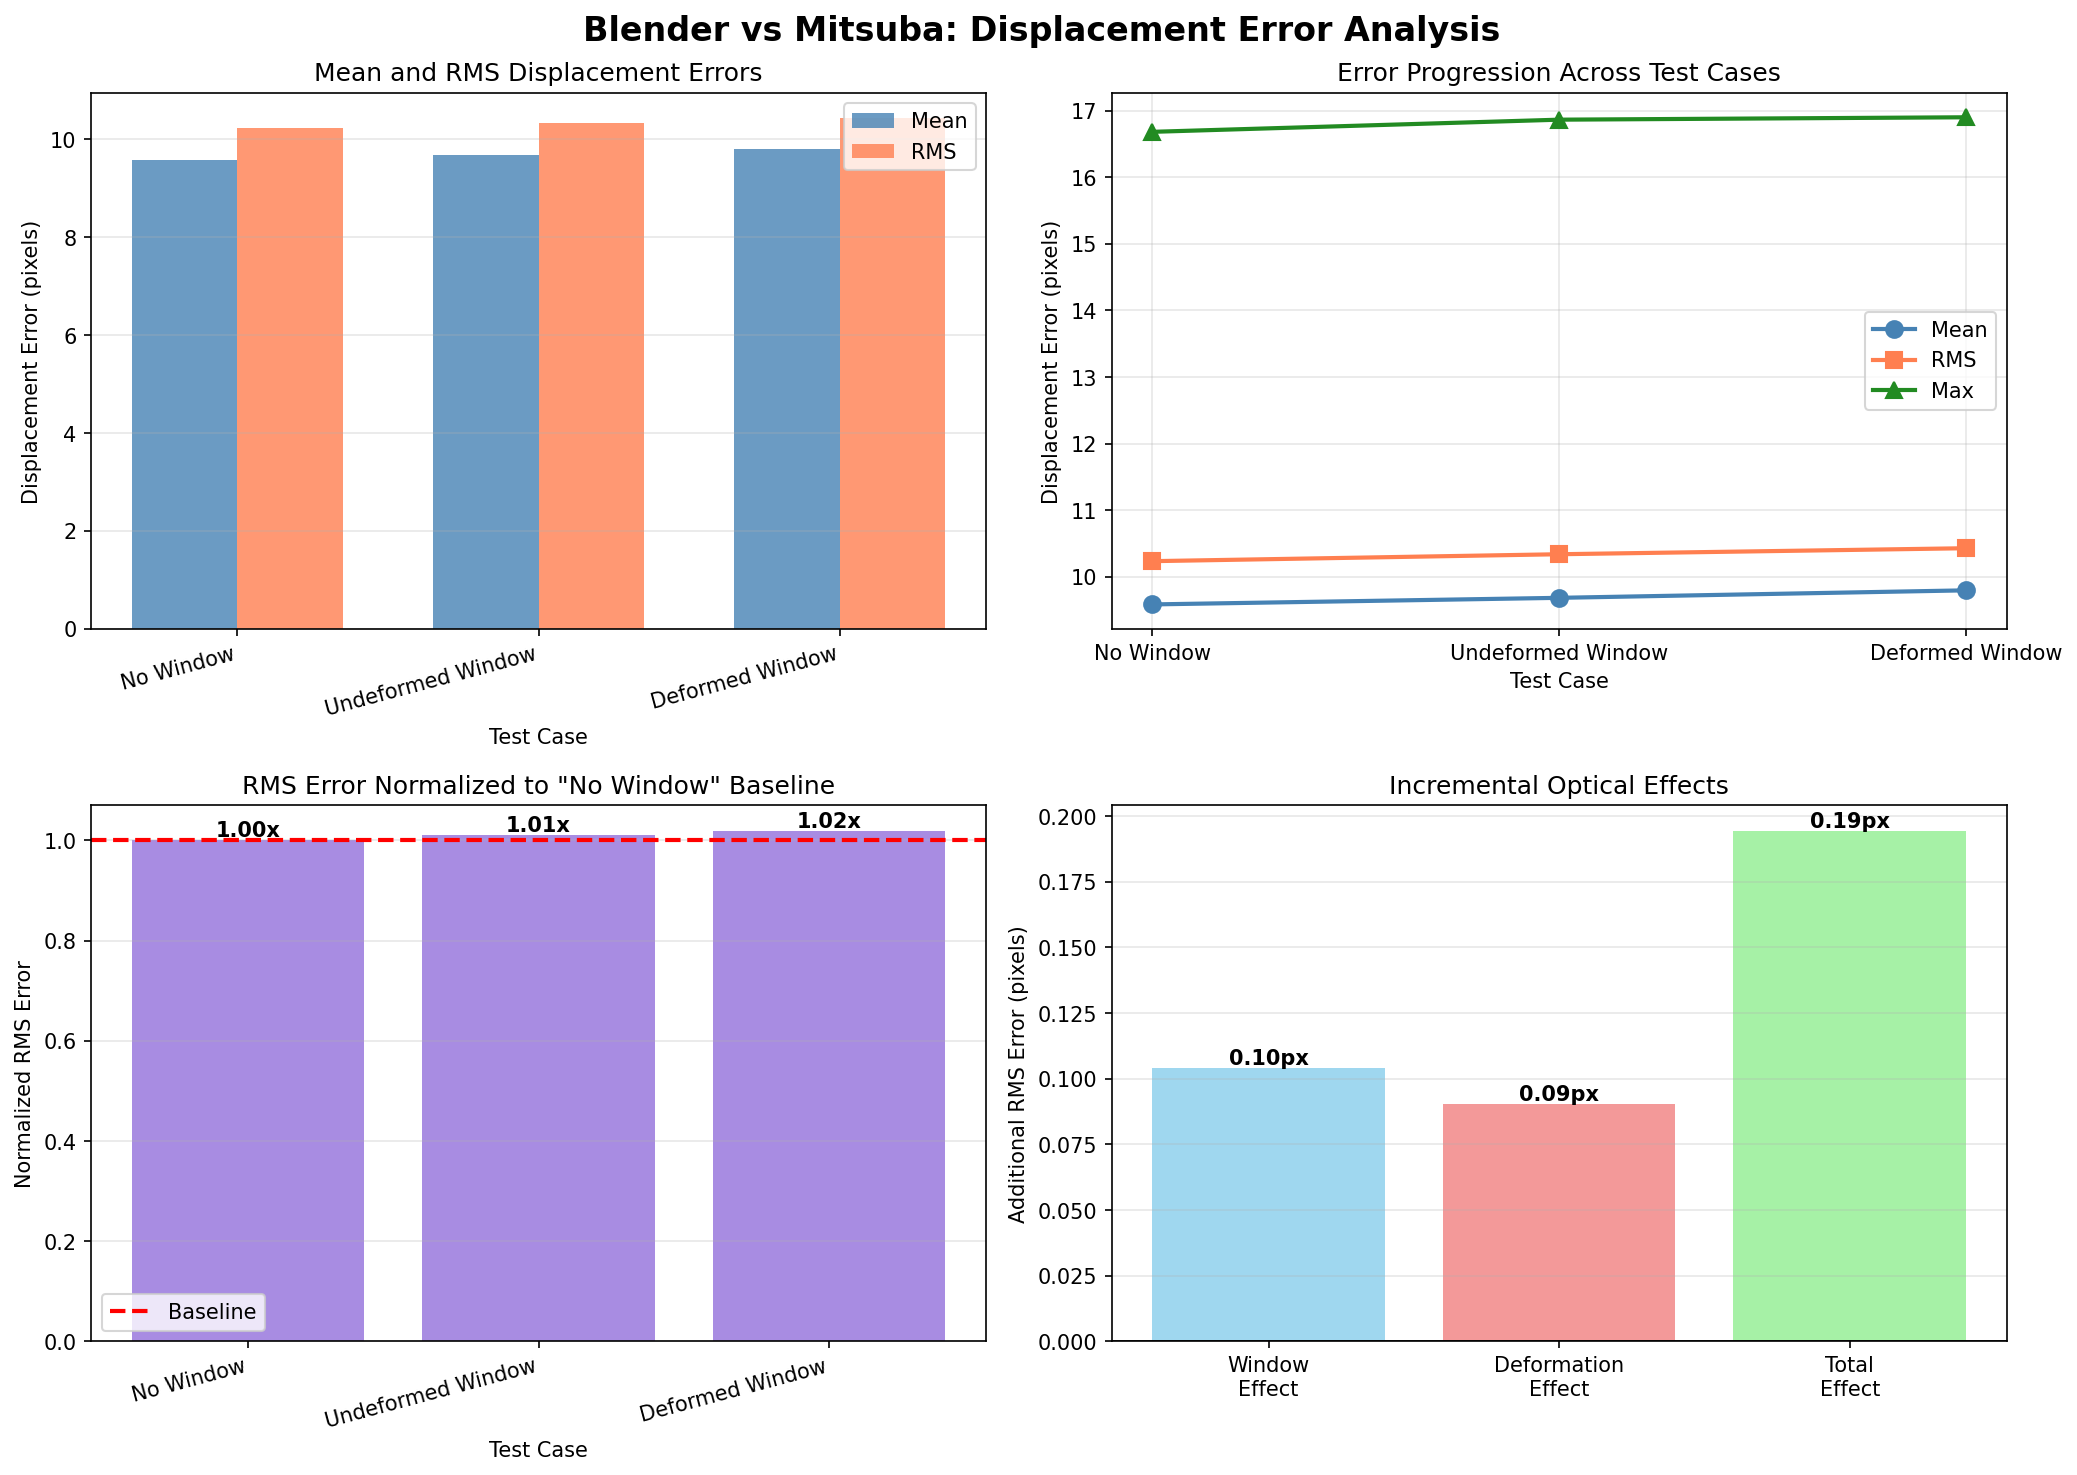
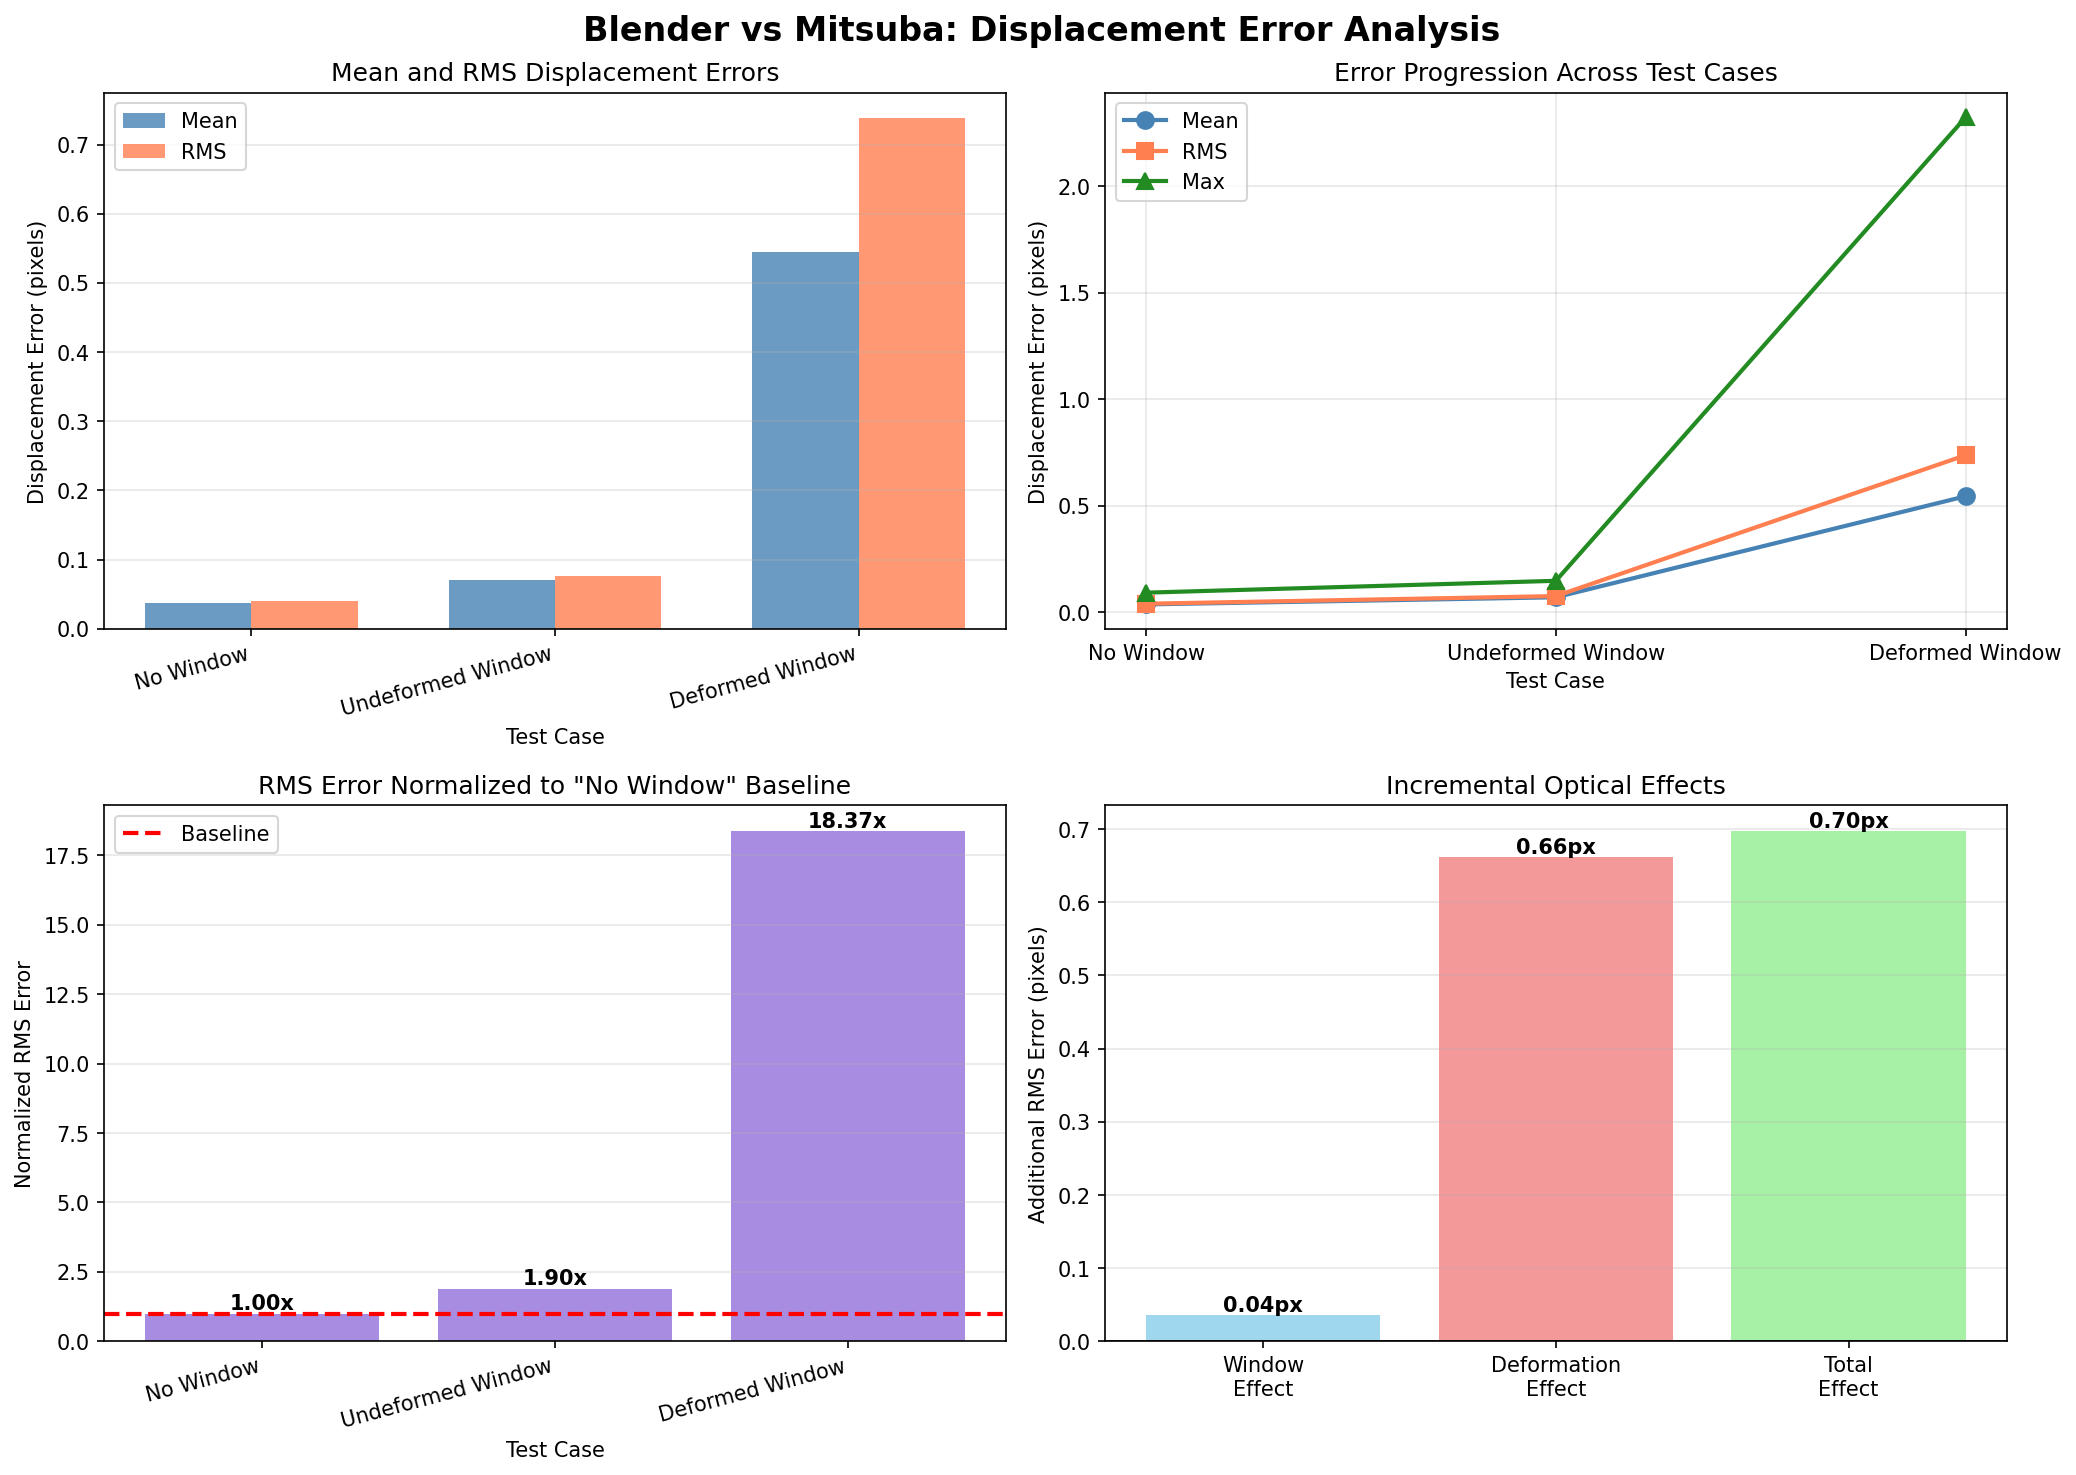
validation updated

diff --git a/validation/comparison_analysis/compare_all_renders.py b/validation/comparison_analysis/compare_all_renders.py
@@ -18,8 +18,8 @@ FILE_PATHS = {
     # Blender images
     'blender': {
         'no_window':   'validation/blender/output/images/blenderimage_0_no_window.tiff',
-        'undeformed':  'validation/blender/output/images/blenderimage_0.tiff',
-        'deformed':    'validation/blender/output/images/blenderimage_1.tiff',
+        'undeformed':  'validation/blender/output/images/blenderimage_0_big.tiff',
+        'deformed':    'validation/blender/output/images/blenderimage_1_big.tiff',
     },
     # Mitsuba images
     'mitsuba': {
@@ -451,19 +451,19 @@ def generate_comparison_plots(results: Dict[str, ComparisonResult], output_dir: 
 
 
 def generate_displacement_visualizations(results: Dict[str, ComparisonResult], output_dir: Path, test_cases, pattern_size):
-    """Generate displacement field visualizations for each case"""
+    """Generate difference heatmaps between Blender and Mitsuba for each case"""
     
     n_cases = len([c for c in test_cases if c[0] in results])
     if n_cases == 0:
         return
     
-    fig, axes = plt.subplots(n_cases, 3, figsize=(15, 5*n_cases))
+    fig, axes = plt.subplots(1, n_cases, figsize=(6*n_cases, 5))
     if n_cases == 1:
-        axes = axes.reshape(1, -1)
+        axes = [axes]
     
-    fig.suptitle('Displacement Field Analysis by Test Case', fontsize=16, fontweight='bold')
+    fig.suptitle('Blender vs Mitsuba: Corner Position Differences', fontsize=16, fontweight='bold')
     
-    row = 0
+    col = 0
     for case_id, case_name, _ in test_cases:
         if case_id not in results:
             continue
@@ -471,51 +471,32 @@ def generate_displacement_visualizations(results: Dict[str, ComparisonResult], o
         result = results[case_id]
         displacement_magnitude = np.linalg.norm(result.displacement, axis=2).flatten()
         
-        corners_reshaped = result.corners_a.reshape(-1, 2)
-        displacement_reshaped = result.displacement.reshape(-1, 2)
-        
-        # 1. Quiver plot
-        ax = axes[row, 0]
-        quiv = ax.quiver(corners_reshaped[:, 0], corners_reshaped[:, 1],
-                   displacement_reshaped[:, 0], displacement_reshaped[:, 1],
-                   displacement_magnitude, scale=10, scale_units='xy', cmap='jet')
-        plt.colorbar(quiv, ax=ax, label='Displacement (px)')
-        ax.set_title(f'{case_name}\nDisplacement Field')
-        ax.invert_yaxis()
-        ax.axis('equal')
-        ax.set_xlabel('X (pixels)')
-        ax.set_ylabel('Y (pixels)')
-        
-        # 2. Heatmap
-        ax = axes[row, 1]
+        # Reshape into grid
         displacement_grid = displacement_magnitude.reshape(pattern_size[1], pattern_size[0])
+        
+        ax = axes[col]
         im = ax.imshow(displacement_grid, cmap='hot', interpolation='nearest')
-        plt.colorbar(im, ax=ax, label='Displacement (px)')
-        ax.set_title(f'{case_name}\nMagnitude Heatmap')
+        cbar = plt.colorbar(im, ax=ax, label='Displacement (px)')
+        
+        mean_disp = result.mean_error
+        max_disp = result.max_error
+        rms_disp = result.rms_error
+        
+        ax.set_title(f'{case_name}\n'
+                    f'Mean: {mean_disp:.2f}px | RMS: {rms_disp:.2f}px | Max: {max_disp:.2f}px',
+                    fontsize=11)
         ax.set_xlabel('X corner index')
         ax.set_ylabel('Y corner index')
         
-        # 3. Histogram
-        ax = axes[row, 2]
-        ax.hist(displacement_magnitude, bins=30, edgecolor='black', alpha=0.7)
-        ax.axvline(result.mean_error, color='r', linestyle='--', linewidth=2, label=f'Mean: {result.mean_error:.2f}')
-        ax.axvline(result.rms_error, color='g', linestyle='--', linewidth=2, label=f'RMS: {result.rms_error:.2f}')
-        ax.set_xlabel('Displacement (pixels)')
-        ax.set_ylabel('Frequency')
-        ax.set_title(f'{case_name}\nDistribution')
-        ax.legend()
-        ax.grid(True, alpha=0.3)
-        
-        row += 1
+        col += 1
     
     plt.tight_layout()
     
-    output_path = output_dir / 'displacement_fields.png'
+    output_path = output_dir / 'blender_mitsuba_differences.png'
     plt.savefig(output_path, dpi=150, bbox_inches='tight')
     plt.close()
     
-    print(f"  ✓ Displacement fields: {output_path.name}")
-
+    print(f"  ✓ Difference heatmaps: {output_path.name}")
 
 def generate_relative_displacement_analysis(results, output_dir, pattern_size, file_paths):
     """
@@ -551,18 +532,18 @@ def generate_relative_displacement_analysis(results, output_dir, pattern_size, f
     
     engines = ['blender', 'mitsuba']
     
-    fig, axes = plt.subplots(len(engines), len(cases_to_compare), 
-                             figsize=(7*len(cases_to_compare), 6*len(engines)))
+    # Create 2 rows (cases) × 3 columns (Blender, Mitsuba, Difference)
+    fig, axes = plt.subplots(len(cases_to_compare), 3, 
+                             figsize=(18, 6*len(cases_to_compare)))
     
-    if len(engines) == 1:
-        axes = axes.reshape(1, -1)
     if len(cases_to_compare) == 1:
-        axes = axes.reshape(-1, 1)
+        axes = axes.reshape(1, -1)
     
     fig.suptitle('Relative Displacement from "No Window" Baseline', 
                  fontsize=16, fontweight='bold')
 
     
+    # Load baseline corners for both engines
     baseline_corners = {}
     for engine in engines:
         baseline_path = Path(file_paths[engine]['no_window'])
@@ -584,22 +565,26 @@ def generate_relative_displacement_analysis(results, output_dir, pattern_size, f
         else:
             print(f"    Failed to find corners in baseline for {engine}")
     
-    for row, engine in enumerate(engines):
-        engine_title = engine.capitalize()
+    # Store relative displacements for difference calculation
+    relative_displacements = {}
+    
+    # Process each case (row)
+    for row, (case_id, case_name) in enumerate(cases_to_compare):
+        relative_displacements[case_id] = {}
         
-        if engine not in baseline_corners:
-            for col in range(len(cases_to_compare)):
-                axes[row, col].text(0.5, 0.5, f'{engine_title}\nBaseline Missing',
-                                   ha='center', va='center', fontsize=14,
-                                   transform=axes[row, col].transAxes)
-                axes[row, col].set_title(f'{engine_title}: Baseline Missing')
-            continue
-        
-        baseline = baseline_corners[engine]
-        
-        for col, (case_id, case_name) in enumerate(cases_to_compare):
+        # Process each engine (columns 0 and 1)
+        for col, engine in enumerate(engines):
             ax = axes[row, col]
+            engine_title = engine.capitalize()
             
+            if engine not in baseline_corners:
+                ax.text(0.5, 0.5, f'{engine_title}\nBaseline Missing',
+                       ha='center', va='center', fontsize=14,
+                       transform=ax.transAxes)
+                ax.set_title(f'{engine_title}: Baseline Missing')
+                continue
+            
+            baseline = baseline_corners[engine]
             case_path = Path(file_paths[engine][case_id])
             
             if not case_path.exists():
@@ -630,6 +615,9 @@ def generate_relative_displacement_analysis(results, output_dir, pattern_size, f
             relative_displacement = case_corners - baseline
             relative_magnitude = np.linalg.norm(relative_displacement, axis=2).flatten()
             
+            # Store for difference calculation
+            relative_displacements[case_id][engine] = relative_displacement
+            
             displacement_grid = relative_magnitude.reshape(pattern_size[1], pattern_size[0])
             
             im = ax.imshow(displacement_grid, cmap='hot', interpolation='nearest')
@@ -645,6 +633,41 @@ def generate_relative_displacement_analysis(results, output_dir, pattern_size, f
             ax.set_ylabel('Y corner index')
             
             print(f"    ✓ {engine_title} {case_name}: mean={mean_disp:.2f}px, max={max_disp:.2f}px")
+        
+        # Plot difference (Mitsuba - Blender) in column 2
+        ax = axes[row, 2]
+        
+        # Check if we have data for both engines
+        if ('blender' not in relative_displacements[case_id] or
+            'mitsuba' not in relative_displacements[case_id]):
+            
+            ax.text(0.5, 0.5, f'Missing Data\nfor Difference',
+                   ha='center', va='center', fontsize=14,
+                   transform=ax.transAxes)
+            ax.set_title(f'Difference: {case_name} (Incomplete)')
+            continue
+        
+        # Calculate difference: Mitsuba - Blender
+        diff = (relative_displacements[case_id]['mitsuba'] - 
+                relative_displacements[case_id]['blender'])
+        diff_magnitude = np.linalg.norm(diff, axis=2).flatten()
+        
+        diff_grid = diff_magnitude.reshape(pattern_size[1], pattern_size[0])
+        
+        # Use a diverging colormap for differences
+        im = ax.imshow(diff_grid, cmap='RdBu_r', interpolation='nearest')
+        cbar = plt.colorbar(im, ax=ax, label='Difference (px)')
+        
+        mean_diff = np.mean(diff_magnitude)
+        max_diff = np.max(diff_magnitude)
+        
+        ax.set_title(f'Mitsuba - Blender: {case_name}\n'
+                    f'Mean: {mean_diff:.2f}px, Max: {max_diff:.2f}px',
+                    fontsize=11)
+        ax.set_xlabel('X corner index')
+        ax.set_ylabel('Y corner index')
+        
+        print(f"    ✓ Difference {case_name}: mean={mean_diff:.2f}px, max={max_diff:.2f}px")
     
     plt.tight_layout()
     
@@ -653,7 +676,6 @@ def generate_relative_displacement_analysis(results, output_dir, pattern_size, f
     plt.close()
     
     print(f"  ✓ Relative displacement plot: {output_path.name}")
-
 
 def main():
     """Main execution function"""

diff --git a/validation/mitsuba/validation_test_case_mitsuba.py b/validation/mitsuba/validation_test_case_mitsuba.py
@@ -39,8 +39,8 @@ def export_moose_to_mitsuba(data_path, output_filename):
                                             sim_spat_dim=3,
                                             field_disp_keys=disp_comps)
     
-    # timestep = render_mesh2.fields_render.shape[1] - 1
-    timestep = 0
+    timestep = render_mesh2.fields_render.shape[1] - 1
+    # timestep = 0
     deformed_nodes = pyvale.sensorsim.get_deformed_nodes(timestep,
                                                          render_mesh2)
     
@@ -66,7 +66,7 @@ def export_moose_to_mitsuba(data_path, output_filename):
 def main():
     os.environ["DRJIT_NUM_THREADS"] = "16"
     mitsuba.set_variant('llvm_ad_mono')
-    data_path = Path.cwd() / "moose/input/circular_glass_big_out.e"
+    data_path = Path.cwd() / "moose/input/circular_glass_out.e"
 
     output_dir = Path.cwd() / "validation/mitsuba/output"
     output_dir.mkdir(parents=True, exist_ok=True)
@@ -108,7 +108,7 @@ def main():
         
         # Integrator (path tracer)
         'integrator': {
-            'type': 'path',
+            'type': 'photomapper',
             'max_depth': 8, 
         },
         

diff --git a/validation/blender/validation_test_case_blender.py b/validation/blender/validation_test_case_blender.py
@@ -19,7 +19,7 @@ import pyvale.dataset as dataset
 import pyvale.blender as blender
 import pyvale.mooseherder as mh
 
-data_path = Path.cwd() / "moose/input/circular_glass_big_out.e"
+data_path = Path.cwd() / "moose/input/circular_glass_out.e"
 sim_data = mh.ExodusLoader(data_path).load_all_sim_data()
 
 # %%
@@ -60,6 +60,8 @@ bg.inputs[0].default_value = (0.5, 0.5, 0.5, 1.0)  # Grey color
 
 # Work out what is a good size so that it fills the whole FOV
 target = scene.add_cal_target(target_size=np.array([90, 80, 10]))
+target_location = np.array([0, 0, 0]) 
+blender.Tools.move_blender_obj(part=target, pos_world=target_location)
 
 window = scene.add_part(render_mesh, sim_spat_dim=3)
 # Set the part location
@@ -120,6 +122,7 @@ print("Film transparent:", bpy.context.scene.render.film_transparent)
 print("World nodes enabled:", bpy.context.scene.world.use_nodes)
 print("Background color:", bg.inputs[0].default_value[:])
 print("Background strength:", bg.inputs[1].default_value)
+
 
 # %%
 # Deforming the sample and rendering images
